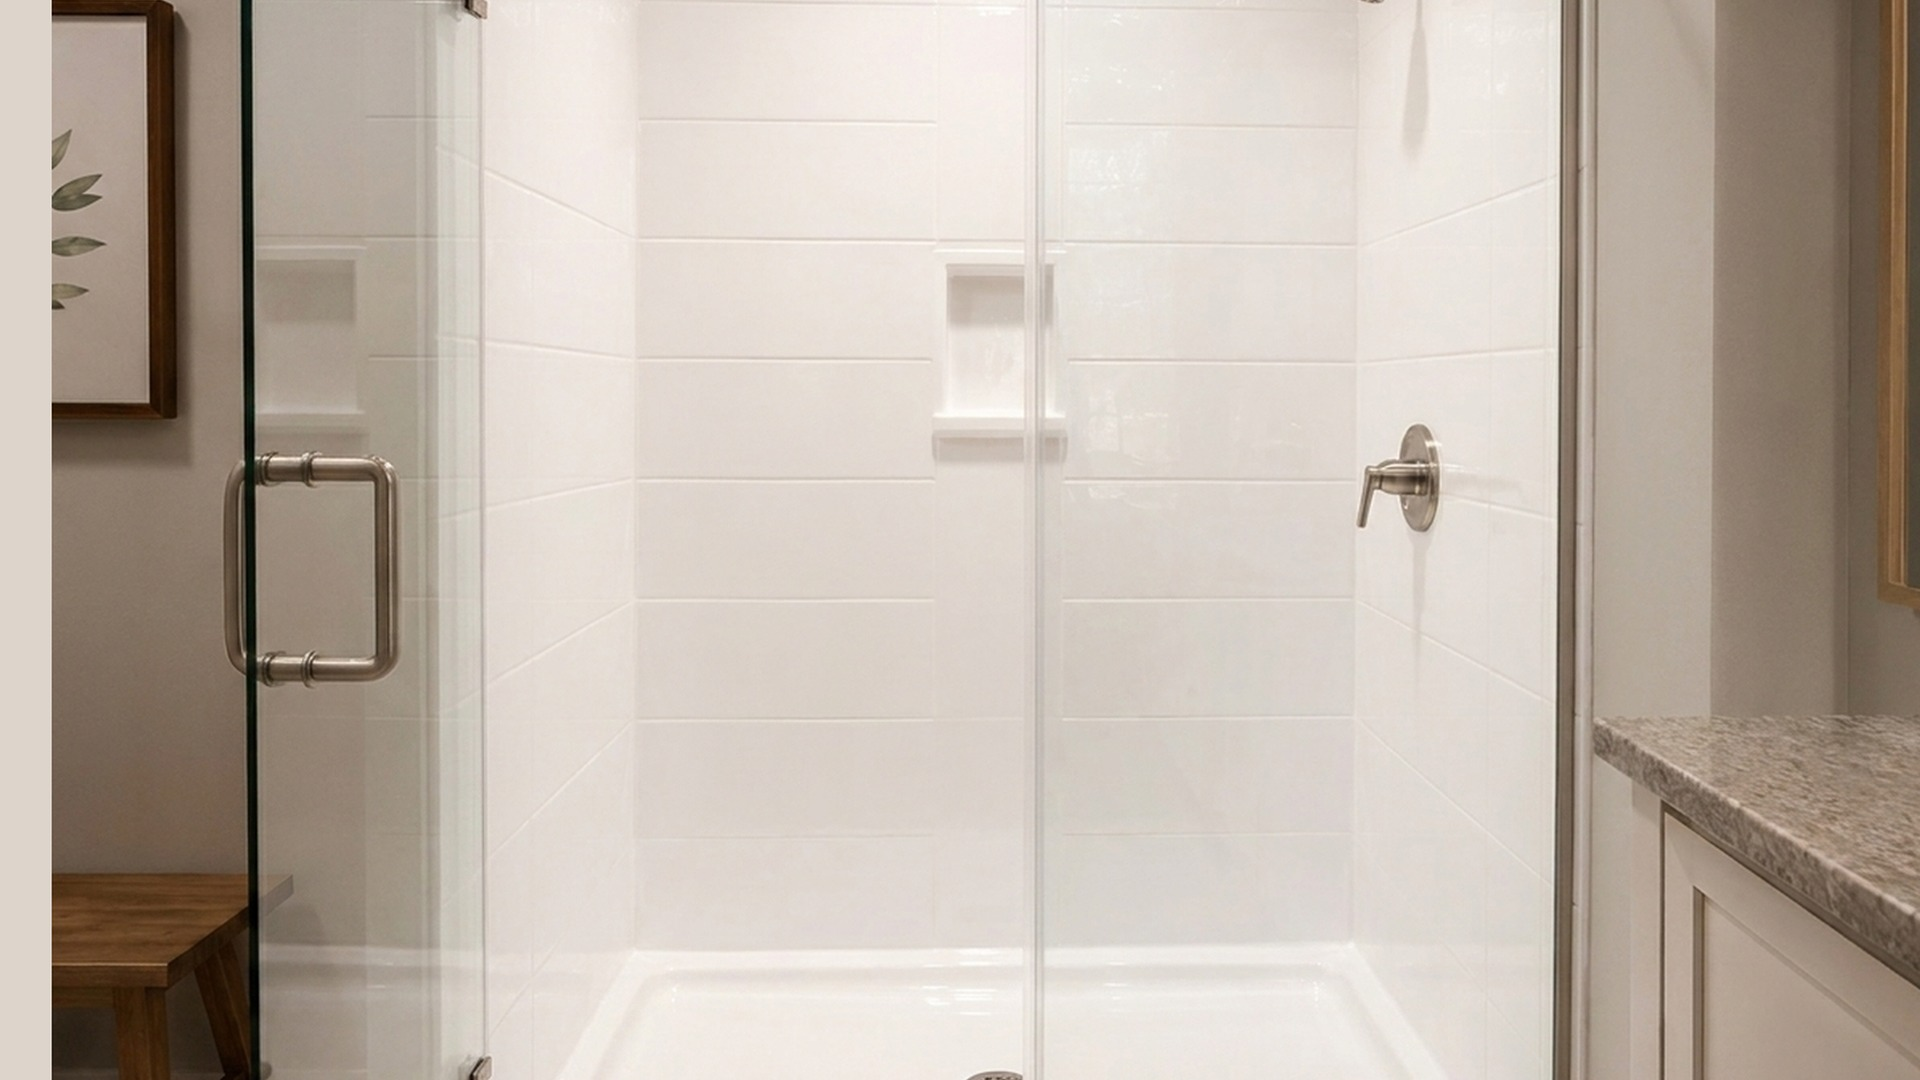
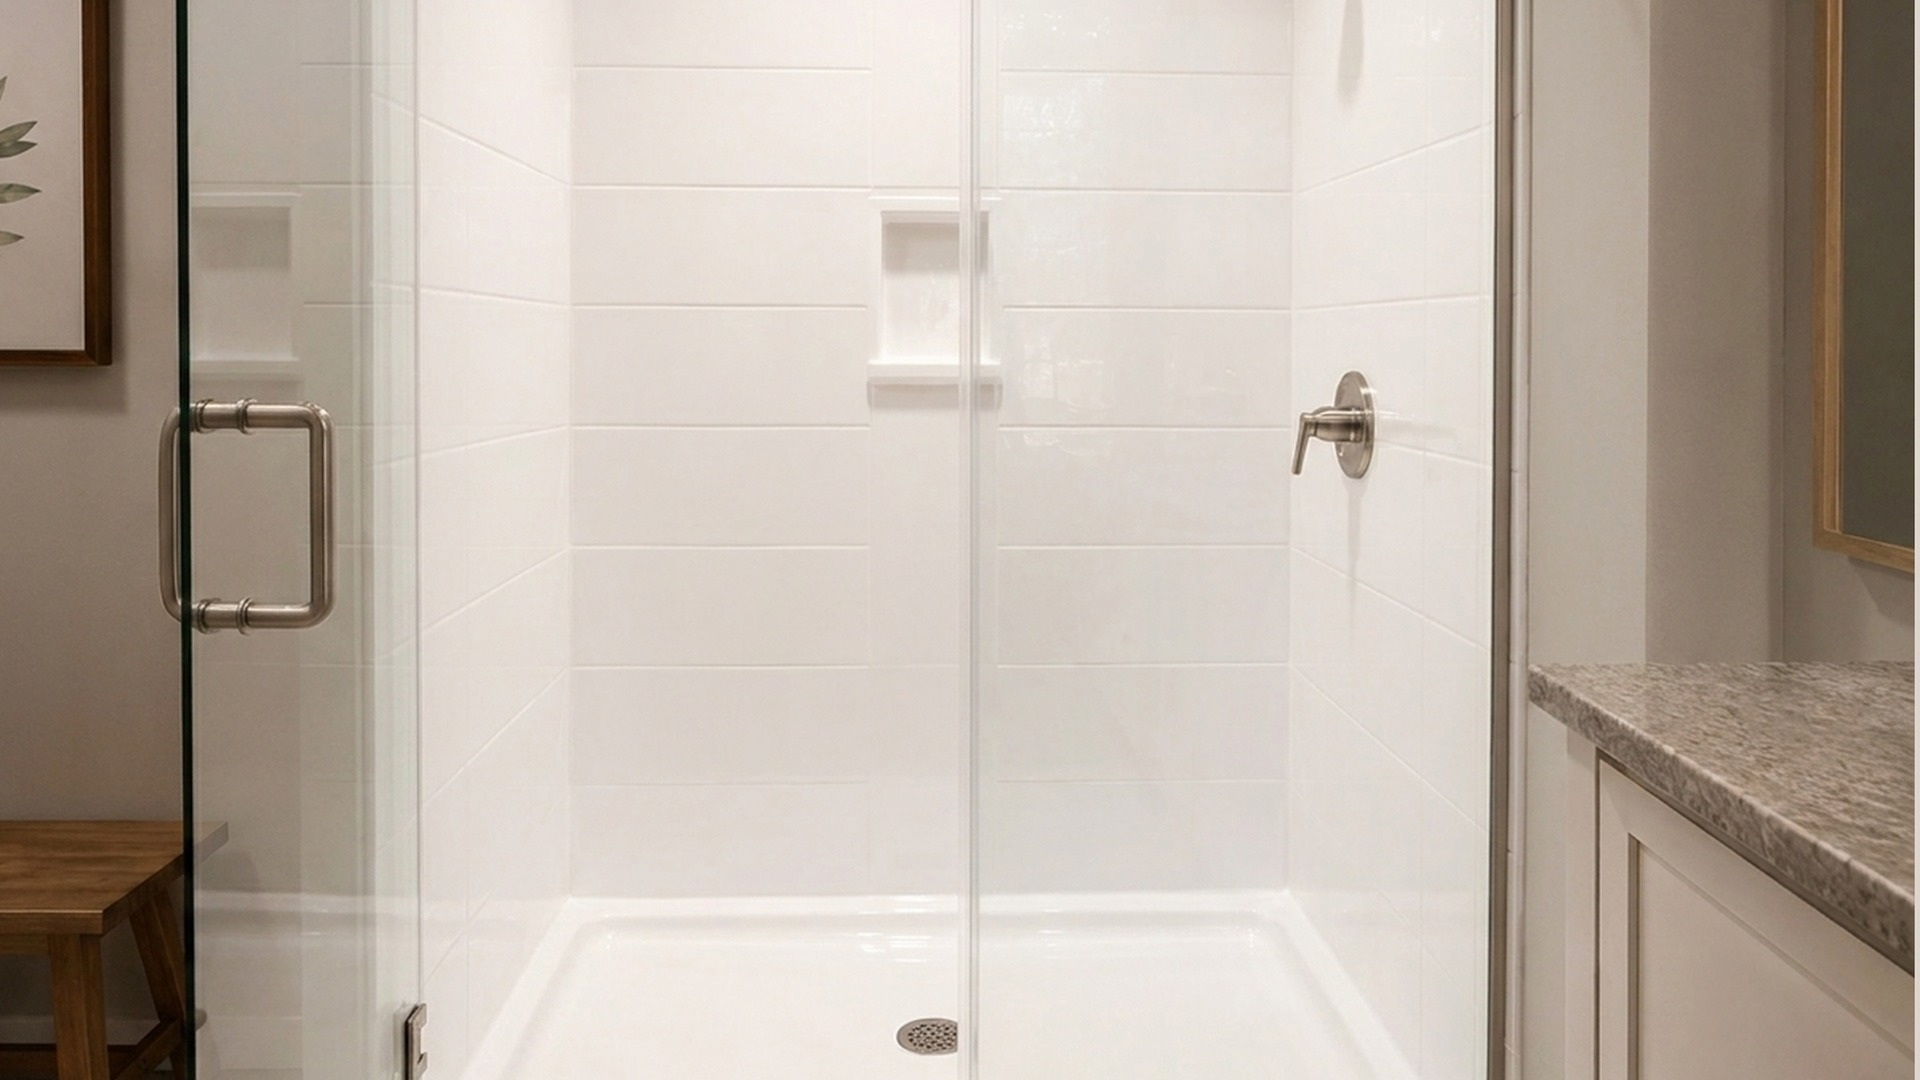
Fine-tune shower BA alignment for niche and tile line match

diff --git a/index.html b/index.html
@@ -298,8 +298,8 @@
             <!-- Slide 2 -->
             <div class="ba-slide" data-index="1">
               <div class="ba-comparison" data-before="images/before-2.jpg" data-after="images/after-2.jpg">
-                <img class="ba-after" src="images/after-2.jpg?v=17" alt="After: shower refinishing by Bath Professional">
-                <img class="ba-before" src="images/before-2.jpg?v=17" alt="Before: shower prior to Bath Professional refinishing">
+                <img class="ba-after" src="images/after-2.jpg?v=18" alt="After: shower refinishing by Bath Professional">
+                <img class="ba-before" src="images/before-2.jpg?v=18" alt="Before: shower prior to Bath Professional refinishing">
                 <div class="ba-handle"><div class="ba-handle-line"></div><div class="ba-handle-circle"><svg width="24" height="24" viewBox="0 0 24 24" fill="none" stroke="currentColor" stroke-width="2"><path d="M8 12h8M5 9l-3 3 3 3M19 9l3 3-3 3"/></svg></div></div>
                 <span class="ba-label ba-label-before">Before</span>
                 <span class="ba-label ba-label-after">After</span>

diff --git a/scripts/prepare-shower-ba.py b/scripts/prepare-shower-ba.py
@@ -79,7 +79,10 @@ def anchor_shift(before: Image.Image, after: Image.Image) -> tuple[int, int]:
     dy = int(round((da[1] - db[1] + an[1] - dn[1]) / 2))
     print(f"before drain={db} niche={dn}")
     print(f"after  drain={da} niche={an}")
-    print(f"shift dx={dx} dy={dy}")
+    print(f"anchor shift dx={dx} dy={dy}")
+    # Fine-tune on final crop so niche/tile lines meet at the slider seam.
+    dx, dy = dx - 49, dy - 40
+    print(f"final shift dx={dx} dy={dy}")
     return dx, dy
 
 